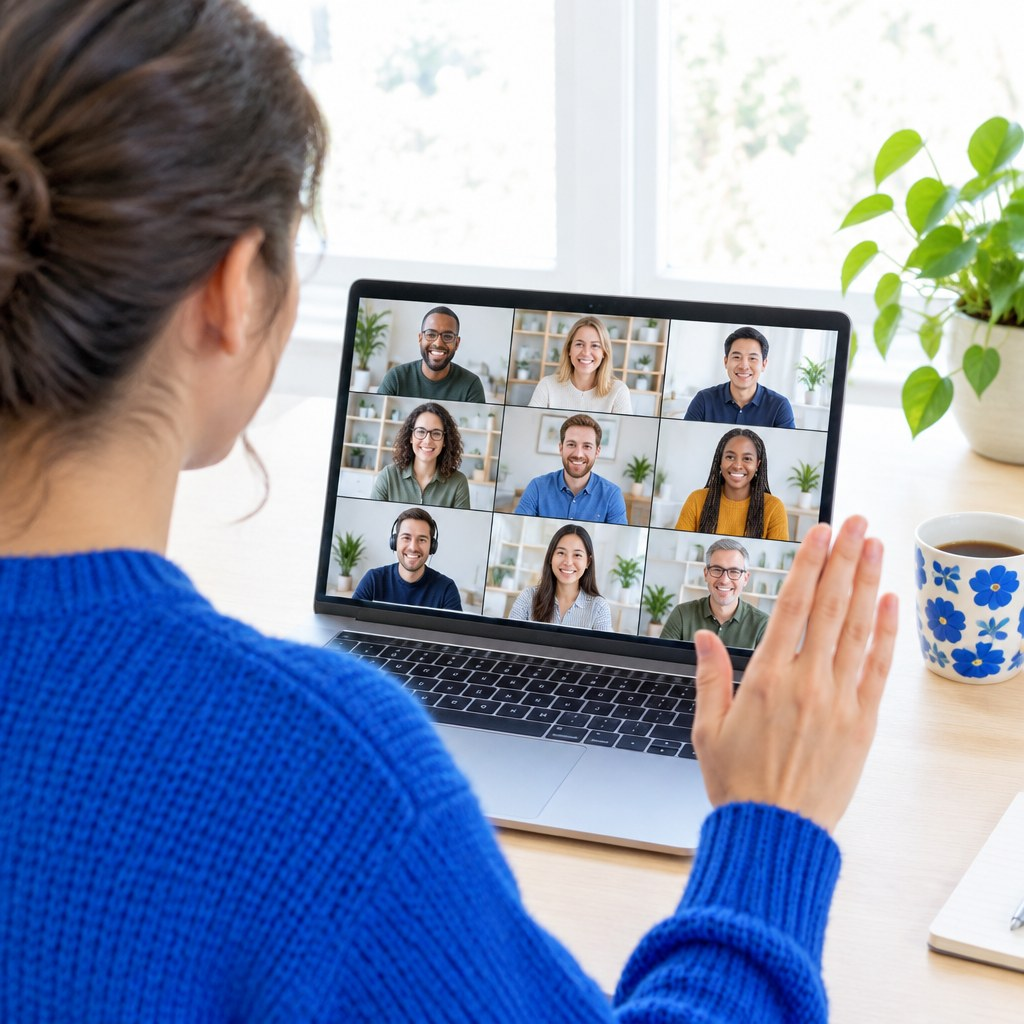
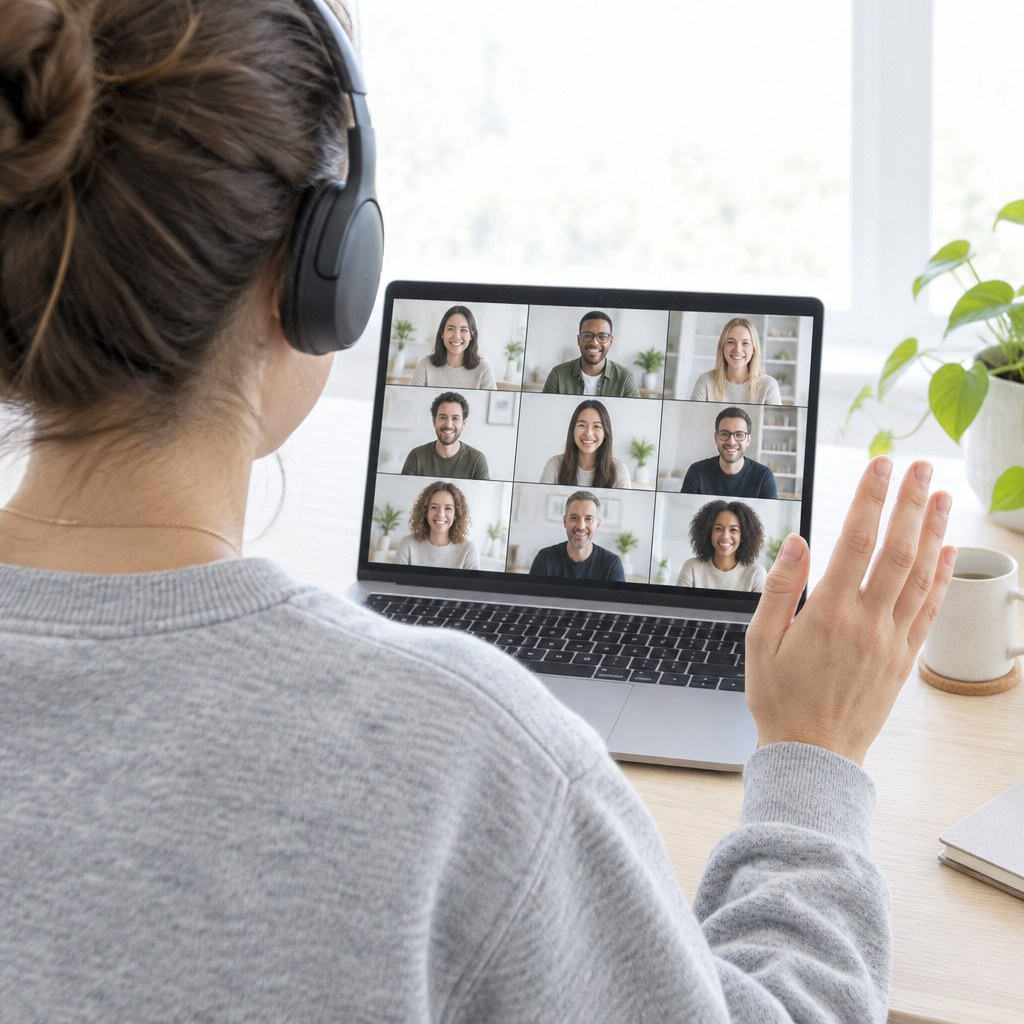
The other sixteen, brought in line (v2.16.0 → v2.16.1)
v2.16.0 reshot the portraits and cities and left the interiors and HA Moments on
the old wardrobe, so half the library was varied and half was still cobalt.

All sixteen reshot. Every people-bearing photograph now follows the five axes in
PROMPTS.md, and cobalt blue appears nowhere in the library.

The set now carries layering (camel cardigans, blazers, knit vests, corduroy
overshirts, denim jackets), pattern (glen check, gingham, breton, pinstripe,
micro-check, houndstooth, buffalo check, batik, songket) and texture (cable knit,
waffle, marl, corduroy, linen, herringbone, indigo denim, silk crepe, fleece) on a
neutral base, with saturated colour as an accent rather than a uniform.

Two loudest repeats specifically:
- spokesperson-portrait moved off hot pink (duplicating another portrait's
  backdrop) onto soft ochre, in a stone linen blazer over a micro-check shirt.
- product-in-context's orange sleeve became oatmeal waffle knit. It is a shot of
  two hands and that sleeve was among the most saturated things in the library.

Filenames unchanged; every deck reference verified to resolve.

diff --git a/CHANGELOG.md b/CHANGELOG.md
@@ -4,6 +4,43 @@ Everything that's changed in the Hoffman design system, newest first. The system
 really lives in the Claude Design project
 (`d10f7f7f-3158-4438-9664-46d071bea8ff`) — this repo is the public copy of it.
 
+## 2026-09-17 — The other sixteen, brought in line (v2.16.0 → v2.16.1)
+
+v2.16.0 reshot the portraits and the cities and left the interiors and HA Moments
+on the old wardrobe, which made the library inconsistent with itself — half of it
+varied, half of it still cobalt.
+
+**All sixteen reshot.** Every people-bearing photograph in the system now follows
+the five axes in `PROMPTS.md`, and **cobalt blue appears nowhere in the library.**
+
+What the set carries now that it did not before:
+
+- **Layering** — camel cardigans, unstructured blazers, knit vests over shirts, a
+  corduroy overshirt, denim jackets, a burgundy corduroy blazer, a grey herringbone
+  blazer, jackets slung over chair backs
+- **Pattern** — glen check, gingham, breton stripe, pinstripe, micro-check,
+  houndstooth, buffalo check, batik, songket
+- **Texture** — cable knit, waffle knit, marl, corduroy, linen, herringbone,
+  indigo denim, silk crepe, fleece
+- **A neutral base** — oatmeal, stone, sage, olive, camel, charcoal, ecru,
+  terracotta, plum, burgundy — with saturated colour used as an accent rather than
+  a uniform
+
+Two specific swaps worth naming, because they were the loudest repeats:
+
+- **The spokesperson portrait** moved off hot pink (which duplicated another
+  portrait's backdrop) onto **soft ochre**, in a stone linen blazer over a
+  navy-and-white micro-check shirt — layered and patterned rather than one flat
+  solid shirt.
+- **The product close-up's orange sleeve** became an **oatmeal waffle knit**. It is
+  a shot of two hands, and the sleeve was one of the most saturated things in the
+  entire library.
+
+Filenames are unchanged, so the deck picks all sixteen up with no edit — verified,
+every reference resolves.
+
+Patch — the half of the library that v2.16.0 did not reach.
+
 ## 2026-09-17 — Every third person was wearing the same cobalt blue jumper (v2.15.0 → v2.16.0)
 
 A photo library is supposed to look like a lot of different days. This one looked

diff --git a/README.md b/README.md
@@ -4,7 +4,7 @@
   <img src="./assets/readme/hero.svg" width="100%" alt="The Hoffman Agency Design System — brand tokens, 48 slide layouts, and the rules an LLM needs to build on-brand.">
 </p>
 
-**Version 2.16.0** · [full history in `CHANGELOG.md`](CHANGELOG.md) · latest: minor — the same wardrobe line went into nearly every image prompt, so **cobalt blue turned up in ~20 of 32 photographs**, almost every garment was a crew-neck knit or plain shirt, and the library had **no pattern and no texture range at all**. Sixteen reshot across the portraits and all ten cities; `PROMPTS.md` now names **five axes to vary** (colour, garment, pattern, texture, layering) plus the two rules that matter: most people should *not* be in a hero colour, and put the repeats in the negative prompt. Versioned with [SemVer](https://semver.org); the canonical number lives in `package.json`.
+**Version 2.16.1** · [full history in `CHANGELOG.md`](CHANGELOG.md) · latest: patch — v2.16.0 reshot the portraits and cities and left the interiors on the old wardrobe, so half the library was varied and half was still cobalt. **All sixteen reshot; cobalt blue now appears nowhere in the system.** The set carries real layering, pattern and texture on a neutral base, with saturated colour as an accent rather than a uniform. Filenames unchanged, so the deck picks them all up. Versioned with [SemVer](https://semver.org); the canonical number lives in `package.json`.
 
 An integrated communications agency for tech brands. Hoffman helps companies turn complex business challenges into clear, compelling stories across earned, digital, social, content, creative and AI-enabled communications.
 
